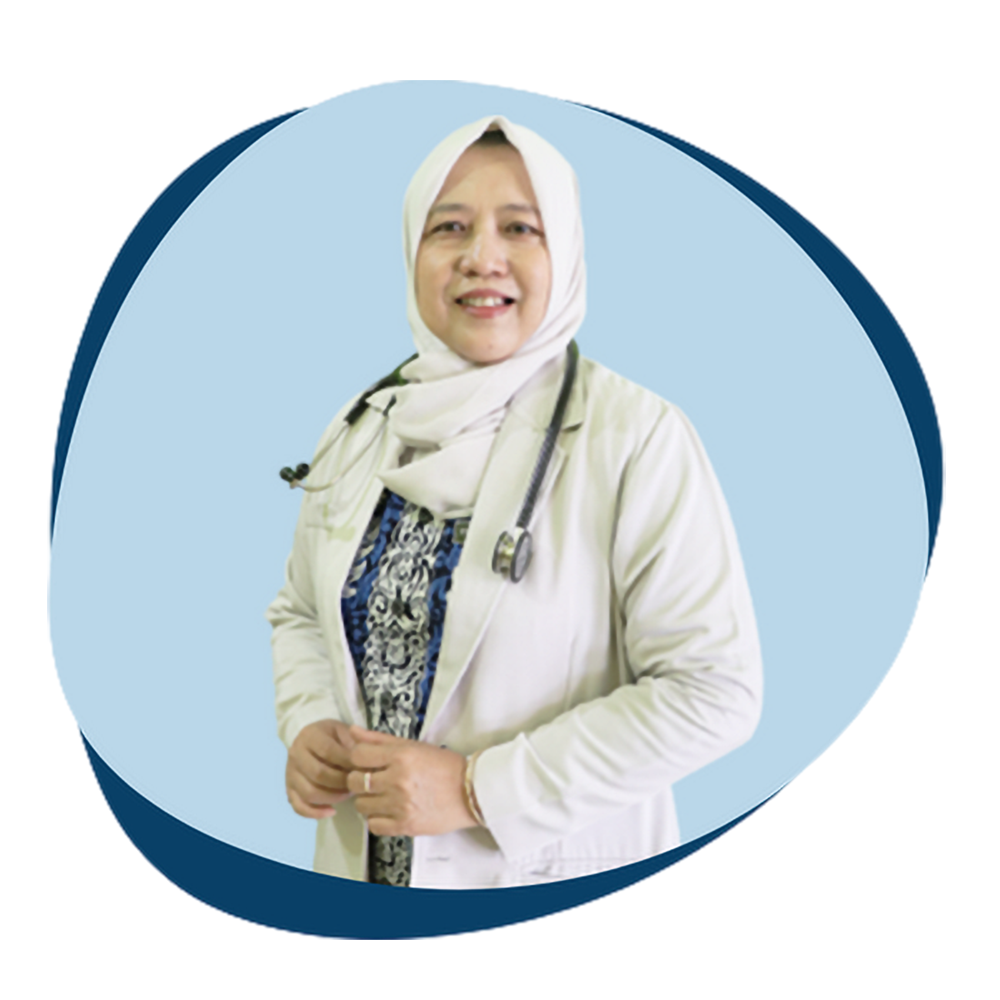
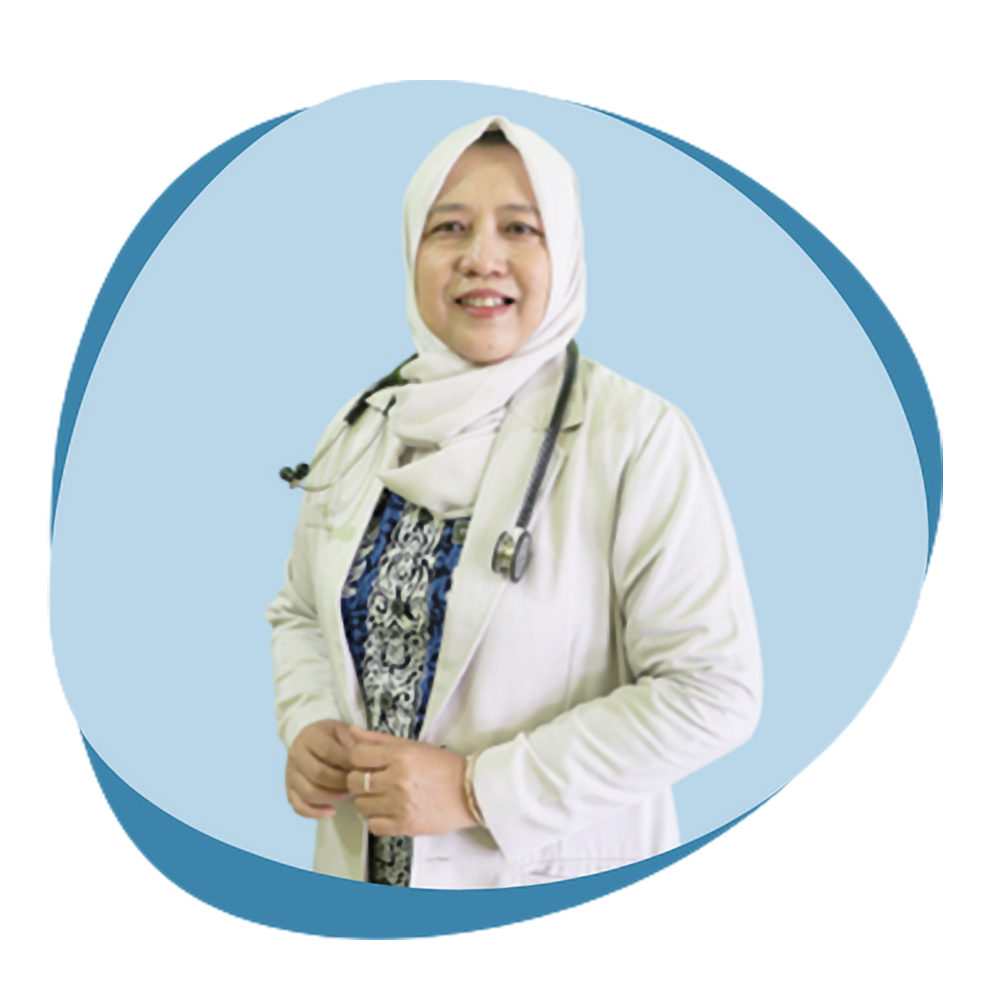
update hero
memperbaiki tampilan hero image

diff --git a/assets/css/syle.css b/assets/css/syle.css
@@ -405,7 +405,8 @@ nav {
 }
 
 
-@media screen and (max-width: 900px) {
+
+@media screen and (max-width: 990px) {
   nav ul li:hover {
     background-color: var(--main-color);
   }
@@ -424,5 +425,11 @@ nav {
     background-color: var(--main-color);
     transform: translateY(0px);
   }
-  
+
+  #hero{
+    width: 100%;
+    background: url("../img/background.png") top right;
+    background-size: cover;
+    position: relative;
+  }
 }
